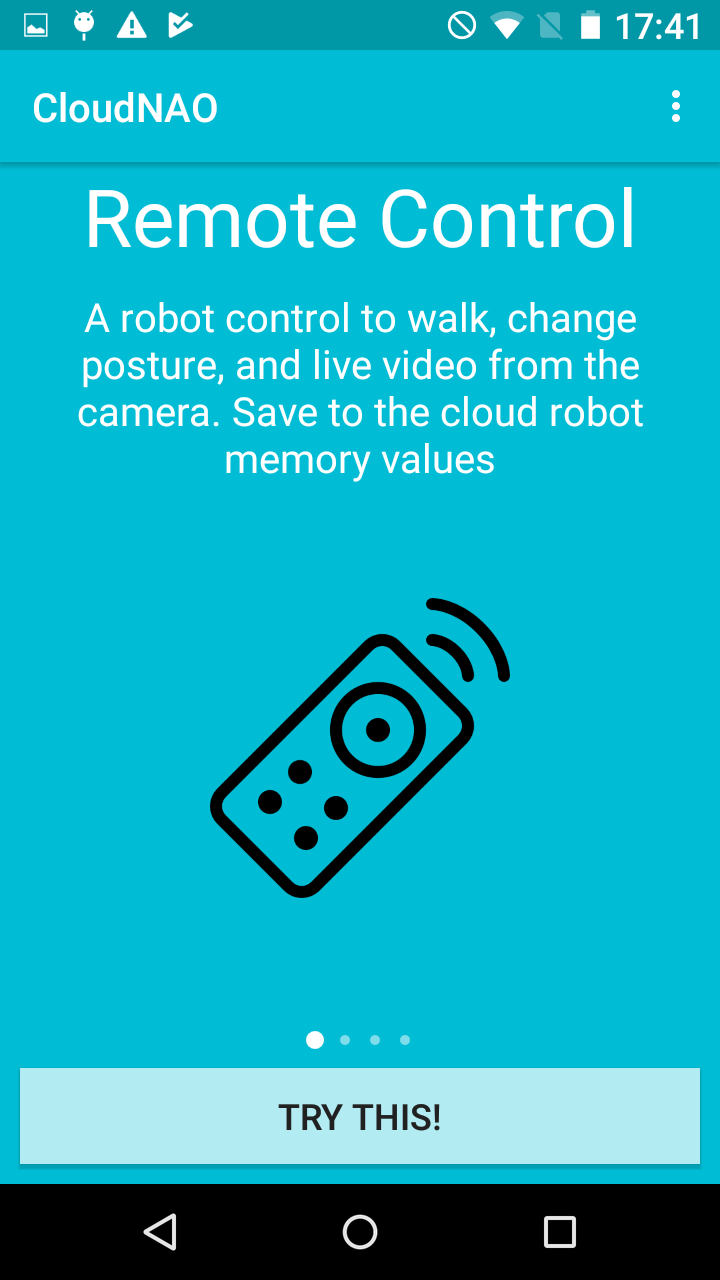
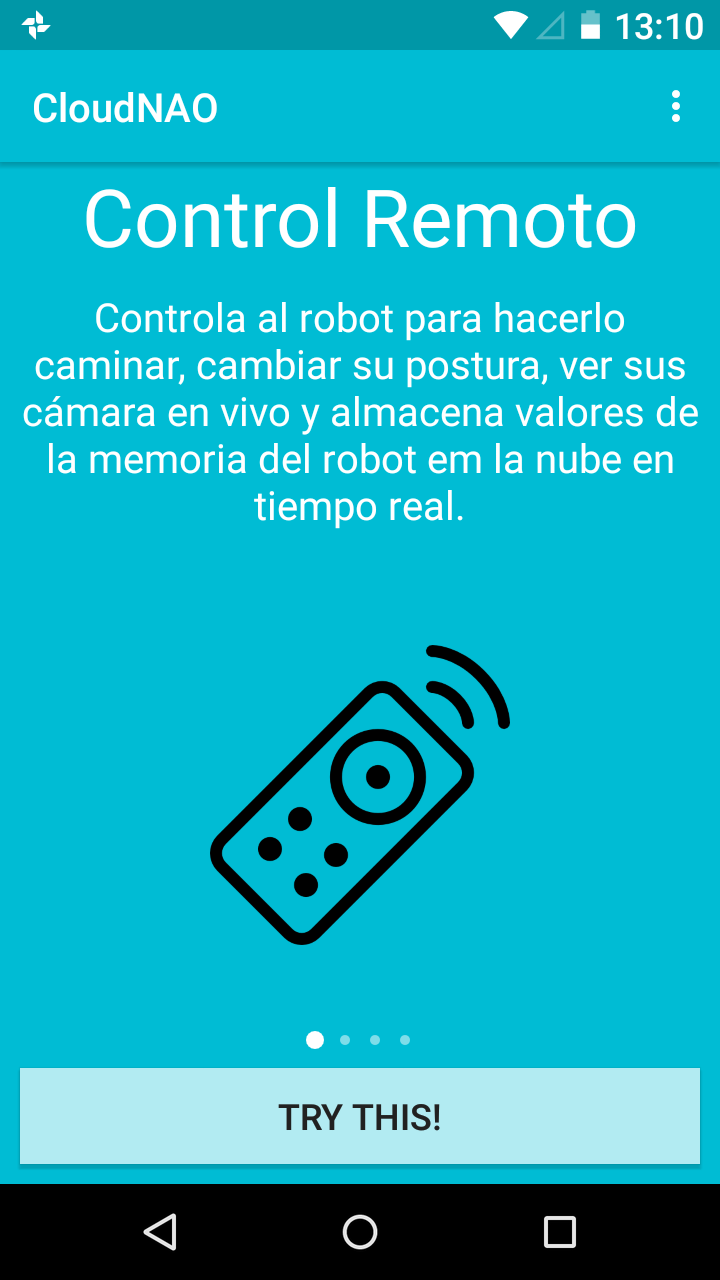
Agrega imágenes de android app en español

diff --git a/C2_arquitectura_cloudnao/android.tex b/C2_arquitectura_cloudnao/android.tex
@@ -123,9 +123,7 @@ cámara del robot.
 \begin{figure}[!h]
     \centering
     \caption{El control remoto muestra una imagen en vivo si se desea, el estado del batería y un joystick para mover al robot.}
-    \subfloat{\includegraphics[scale=.1]{rc_image}}%
-    \qquad
-    \subfloat{\includegraphics[scale=.1]{rc_no_image}}%
+\includegraphics[scale=.1]{rc_image}
 
 \end{figure}
 
@@ -142,9 +140,7 @@ rightUSSensorValue, leftUSSensorValue, rightFootTotalWeight, RightBumperPressed,
     \centering
     \caption{Después de dar clic en el botón START LOG se abre una pantalla para elegir los valores de la memoría que se desean guardar
     en Firebase.}
-    \subfloat{\includegraphics[scale=.1]{memory_list_checked}}%
-    \qquad
-    \subfloat{\includegraphics[scale=.1]{memory_list_unchecked}}%
+    \subfloat{\includegraphics[scale=.1]{memory_list}}%
     \qquad
     \subfloat{\includegraphics[scale=.1]{rc_image3}}
 \end{figure}
@@ -192,10 +188,7 @@ dice la cantidad de objetos que ve de acuerdo a las categorías válidas.
 
 \begin{figure}[!h]
     \centering
-    \subfloat{\includegraphics[scale=.1]{object}}%
-    \qquad
-    \subfloat{\includegraphics[scale=.1]{object2}}%
-
+	\includegraphics[scale=.1]{object}%
 \end{figure}
 
 
@@ -210,9 +203,7 @@ traducción en un discurso oral.
 
 \begin{figure}[!h]
     \centering
-    \subfloat{\includegraphics[scale=.1]{ocr_before}}%
-    \qquad
-    \subfloat{\includegraphics[scale=.1]{ocr_after}}%
+    \includegraphics[scale=.1]{ocr_before}
 
 \end{figure}
 

diff --git a/C3_servicio_en_la_nube/service_implementation.tex b/C3_servicio_en_la_nube/service_implementation.tex
@@ -567,12 +567,26 @@ del módulo \texttt{nao\_robot} descrito en la sección
 que representa la imagen la que se envía a la API REST usando
 \texttt{requests}.
 
-A continuación se muestran algunas imagenes y las
+En la figura \ref{nao_api_images} se muestran algunas imagenes 
+de $160 \times 120$ pixeles y las
 respuestas enviadas por el servicio de clasificación
 de escenarios dentro del recurso \texttt{vision} de la
 API REST de CloudNAO.
 
 
+\begin{figure}[!ht] 
+  \centering
+  
+\subfloat[Clase = zona de trabajo, predicción = zona de trabajo. Tiempo = 3.02]{\includegraphics{nao_api_desk}}
+\qquad
+\subfloat[Clase = salida, predicción = salida. Tiempo = 3.12]{\includegraphics{nao_api_exit}}
+\qquad
+\subfloat[Clase = oficina, predicción = salida. Tiempo = 2.78]{\includegraphics{nao_api_office}}
+\qquad
+\subfloat[Clase = cancha, predicción = cancha. Tiempo = 3.57]{\includegraphics{nao_api_soccer}}
+\caption{Predicciones hechas enviando imágenes del robot a la API REST. El tiempo son los
+segundos que se tardó en enviar la solicitud y en recibir la respuesa. \label{nao_api_images}}
+\end{figure}
 
 
 
